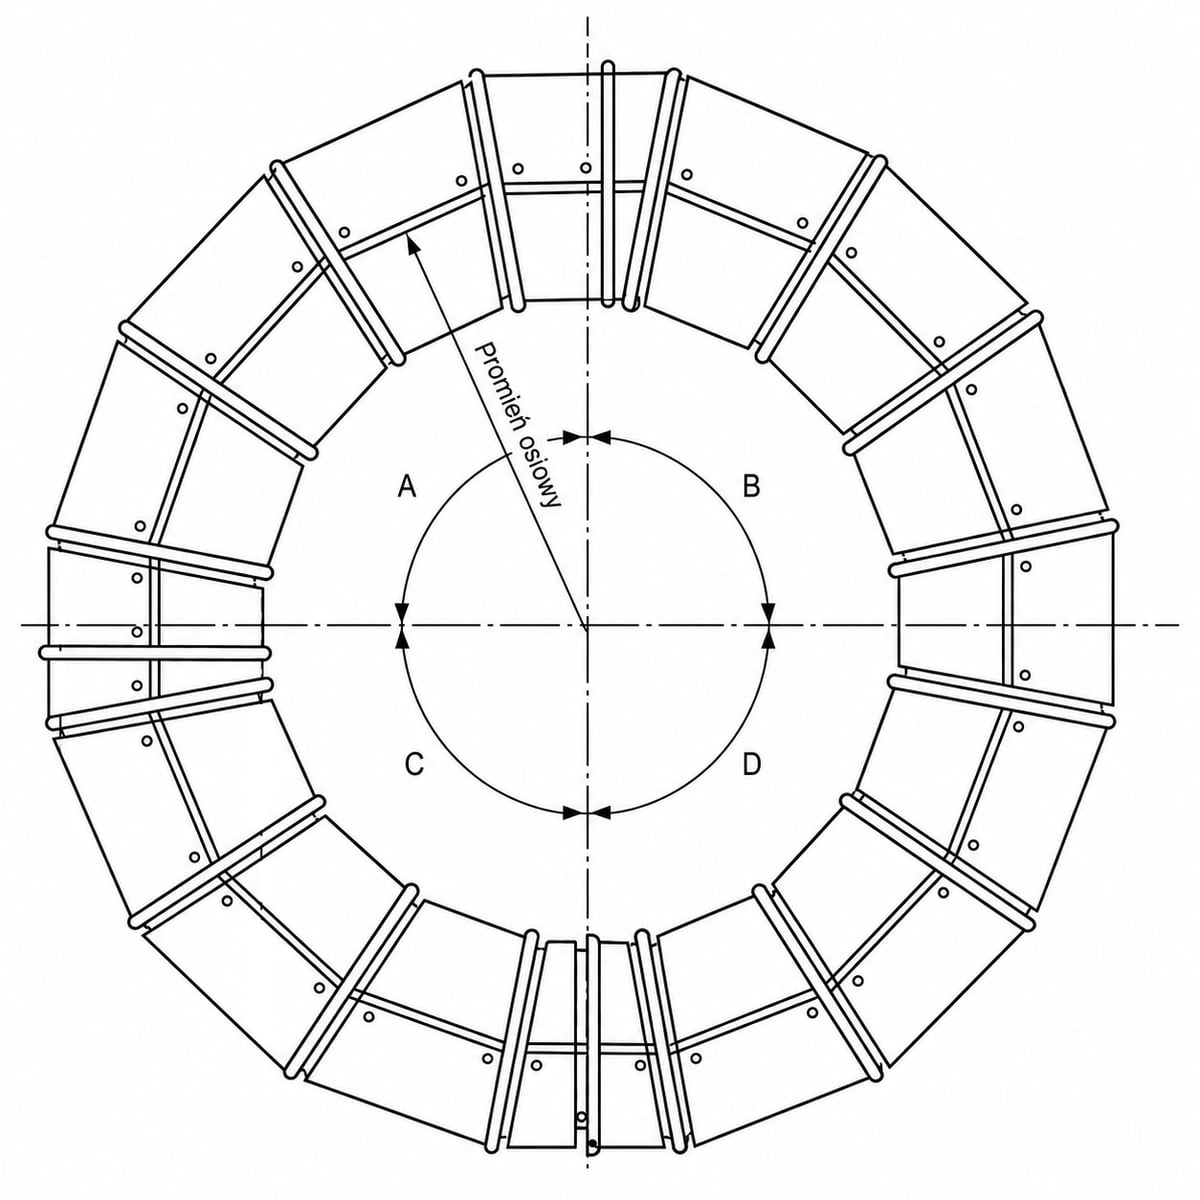
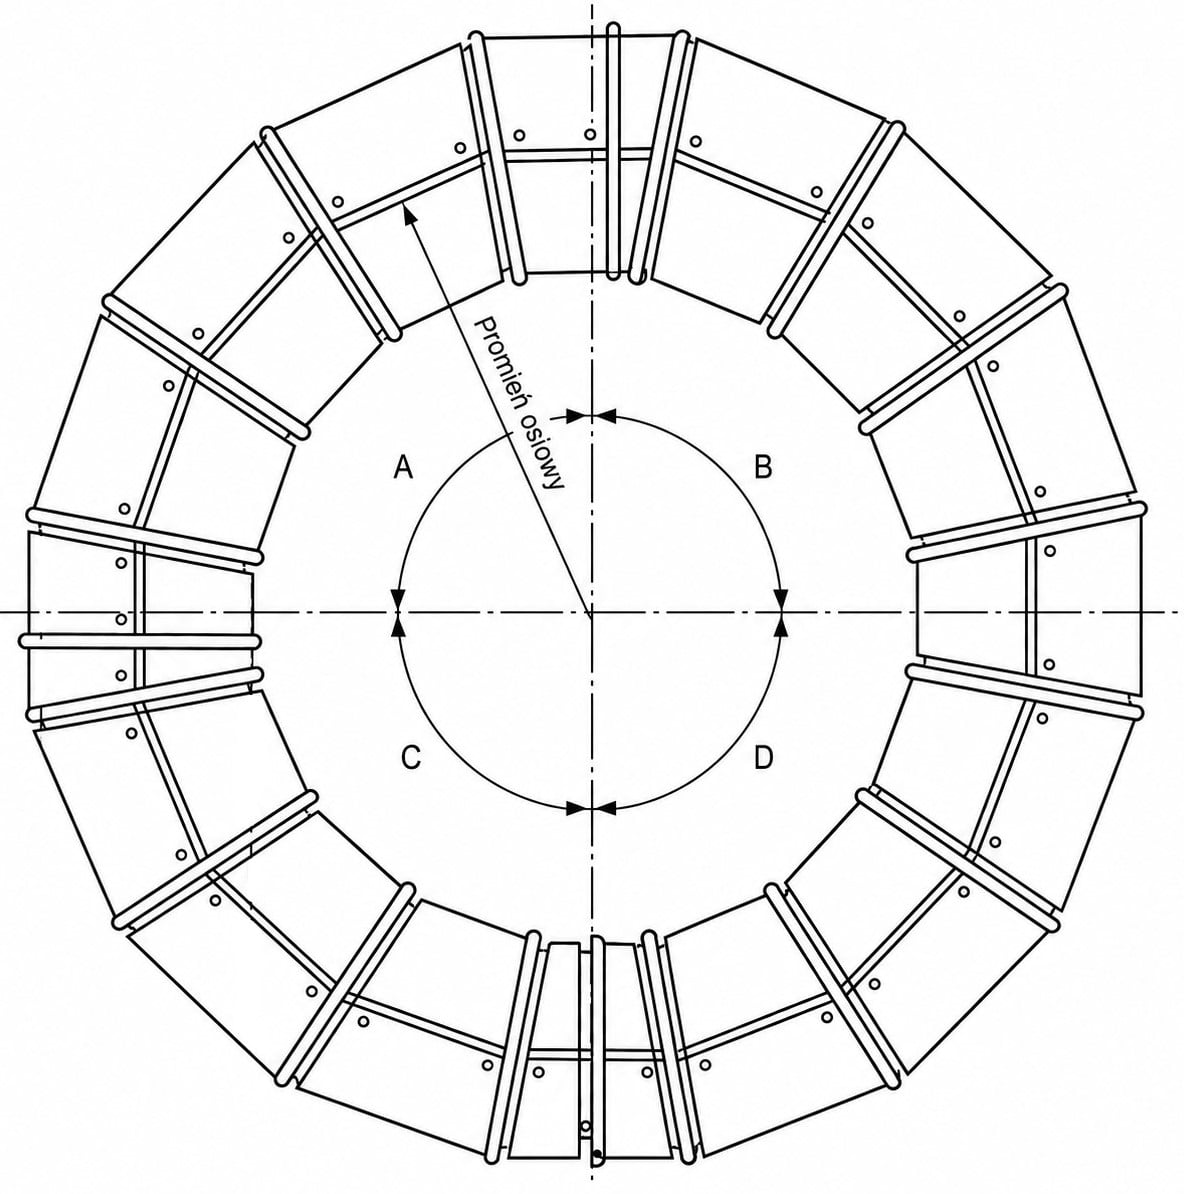
Lekcja 01: nowsza wersja schematu A/B/C/D + większy obrazek na ekranie
Podmiana rysunku montażowego na zaktualizowaną wersję z GRAFIKA (szersze
segmenty, czytelniejsze etykiety) i zmniejszenie marginesu (0.05 -> 0.015),
żeby schemat wypełniał niemal całą planszę.

diff --git a/content/lessons/bla-110/kolano-90.html b/content/lessons/bla-110/kolano-90.html
@@ -1072,7 +1072,7 @@ function drawComplex(s,p){const e=cl(p);if(s.kind==='infocard'){drawInfoCard(s,e
     ctx.save();ctx.shadowColor='rgba(30,30,20,.12)';ctx.shadowBlur=16;ctx.shadowOffsetY=6;ctx.fillStyle='#FFFFFF';ctx.fillRect(p0.x,p0.y,pp1.x-p0.x,pp1.y-p0.y);ctx.restore();
     ctx.fillStyle='rgba(110,114,100,.80)';ctx.font='700 '+Math.round(Math.max(11,Math.min(30,W*0.0333)))+'px monospace';ctx.textAlign='left';ctx.textBaseline='bottom';ctx.fillText('MONTAŻ - KIERUNEK SPŁYWU WODY (A/B/C/D)',p0.x+5,PX(S3.x,S3.y).y-6);
     if(IMG_ABCD&&IMG_ABCD.complete&&IMG_ABCD.naturalWidth>0){
-      const bx=p0.x,by=p0.y,bw=pp1.x-p0.x,bh=pp1.y-p0.y,pad=Math.min(bw,bh)*0.05;
+      const bx=p0.x,by=p0.y,bw=pp1.x-p0.x,bh=pp1.y-p0.y,pad=Math.min(bw,bh)*0.015;
       const ar=IMG_ABCD.naturalWidth/IMG_ABCD.naturalHeight;
       let iw=bw-2*pad,ih=iw/ar;if(ih>bh-2*pad){ih=bh-2*pad;iw=ih*ar;}
       ctx.drawImage(IMG_ABCD,bx+(bw-iw)/2,by+(bh-ih)/2,iw,ih);